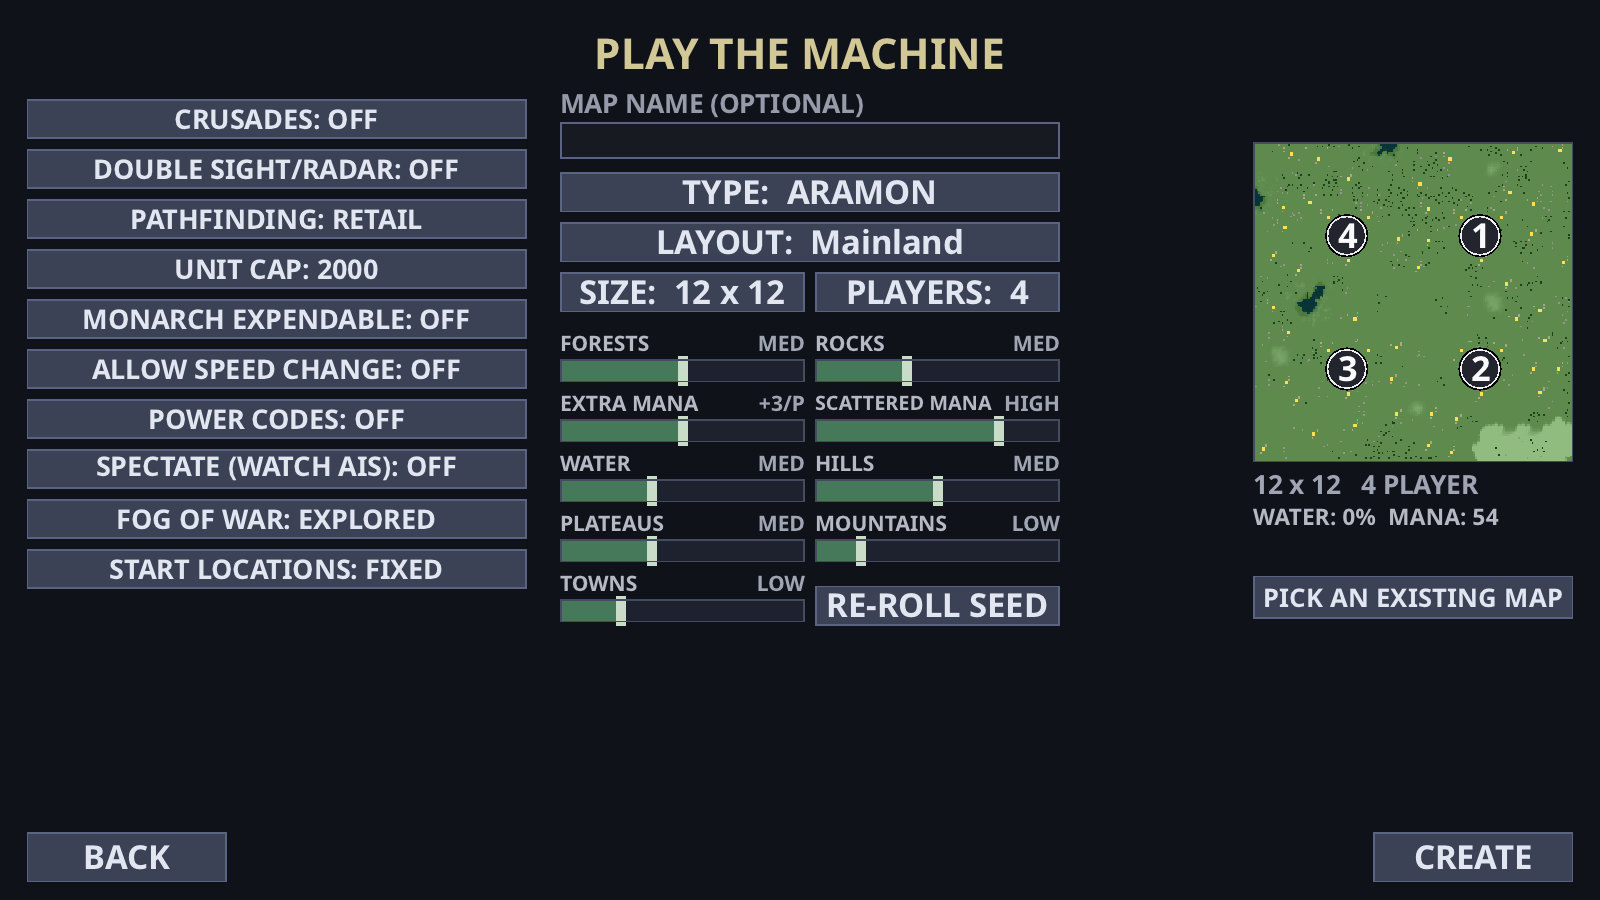
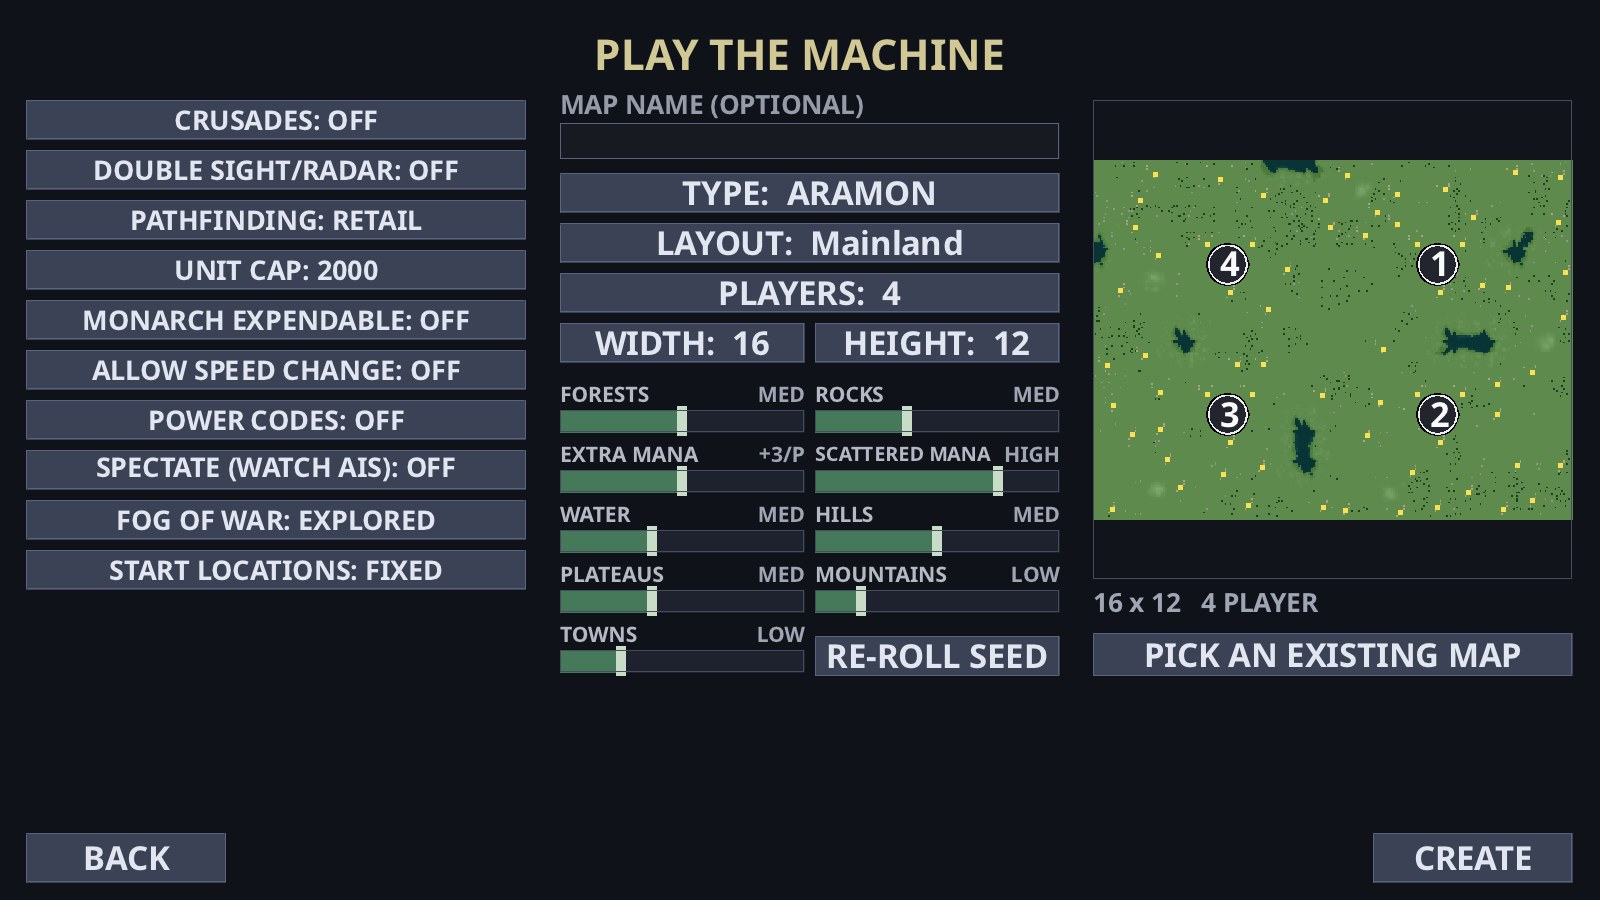
Random maps: width and height set separately, down to 8 sections where the layout fits
The generator already took a width and a height; the menu offered only squares and
sanitize raised small maps by rough per-layout minimums (12 for 5+ players on Mainland,
16/24 on the themed layouts). Now:

- The create screen has PLAYERS on its own row, then WIDTH and HEIGHT (8-64 sections,
  kSizeSteps), each offering only sizes the layout builds with the other side as it is.
- sanitize clamps each side to 8..64 and decides fit by measurement, not guesswork:
  every layout x 2-8 players x widths/heights of 8-64 sections, 16 seeds each (3,080
  combinations), counting a size only when every seed built a map that keeps its layout
  (Maze walls and exits, Highlands uplands, water on Lakes/Riverlands/Ports, a harbor
  per player on Islands/Ports). Two rules reproduce it with no size allowed that fails:
  the start plan keeps kMinStartGap for every seed rotation (startsSpacedForAnySeed,
  sharing the generator's own constant), plus a per-layout shortest side by players.
  A side that does not fit grows the smaller side first along the size steps.

Most layouts now go to 8 x 8 for up to 5 players and 12 x 12 for 6-8; long narrow maps
are allowed where the starts fit. Protocol 322: the same random-map id can build a
different size than 321 did. mapgen_test's bounds check follows (an 8-player 8 x 64 map
fits); the guide's random-map picture and the design doc's table are redone.

Claude-Session: https://claude.ai/code/session_01DLiMWrKYHUMBLp8Vqt4ANr

diff --git a/src/client/gameview_lobby.cpp b/src/client/gameview_lobby.cpp
@@ -555,10 +555,7 @@ float createOptionPx(float maxW) {
 
     void GameView::applyGenParams() {
         genParams_.formatVer = tak::mapgen::Params{}.formatVer;
-        genParams_ = tak::mapgen::sanitize(genParams_);
-        // The menu offers square maps; accommodate the layout's minimum size.
-        genParams_.widthCells = genParams_.heightCells =
-            std::max(genParams_.widthCells, genParams_.heightCells);
+        genParams_ = tak::mapgen::sanitize(genParams_);   // grows a side the layout cannot fit
         auto previous = tak::mapgen::decodeMapId(mpMapId_);
         previous.name = genParams_.name;
         const bool reusePreview = mapPreviewFor_ == mapPath_ &&
@@ -946,7 +943,6 @@ float createOptionPx(float maxW) {
       } else {
         // ---- random-map params panel (replaces the list) --------------------------
         static const char* kTypeName[tak::mapgen::kMapTypes] = {"ARAMON", "TAROS", "VERUNA", "ZHON", "CREON"};
-        static const int kSizes[] = {8, 12, 16, 20, 24, 32, 40, 48, 56, 64};   // section-units (x32 cells) per side
         // One rhythm for the whole panel: every control is kRowH tall and every gap
         // is kGap. The rows used to step by 30, 30, 36 and then 44, so the buttons
         // sat tighter than the sliders and the run of sliders drifted out of line
@@ -966,32 +962,35 @@ float createOptionPx(float maxW) {
                              const int next=(index+direction+4)%4;
                              genParams_.layout=next==3?tak::mapgen::themedLayout(genParams_.mapType):uint8_t(next);
                              applyGenParams(); }); py += kRowH + kGap;
-        int curU = genParams_.widthCells / 32;
-        char szl[48]; std::snprintf(szl, sizeof szl, "SIZE:  %d x %d", curU, curU);
-        // SIZE and PLAYERS share a row, so the six sliders and the seed button
-        // still end above the BACK/CREATE footer band of the 540-high canvas.
-        lbCycle(px, py, kHalfW, kRowH, szl, true, [this](int direction) {
-            const int u = genParams_.widthCells / 32;
+        char pl[32]; std::snprintf(pl, sizeof pl, "PLAYERS:  %d", int(genParams_.players));
+        lbCycle(px, py, kBtnW, kRowH, pl, true, [this](int direction) {
+            genParams_.players = uint8_t(2 + (genParams_.players - 2 + direction + 7) % 7);
+            applyGenParams();
+        }); py += kRowH + kGap;
+        // WIDTH and HEIGHT, in sections (32 cells), each on its own: a step offers only the
+        // sizes the layout can build with the other side as it is (sanitize keeps both).
+        const auto sizeCycle = [this](bool height, int direction) {
+            const int cur = (height ? genParams_.heightCells : genParams_.widthCells) / 32;
             std::vector<int> sizes;
-            for (int size : kSizes) {
+            for (int size : tak::mapgen::kSizeSteps) {
                 auto candidate = genParams_;
-                candidate.widthCells = candidate.heightCells = uint16_t(size * 32);
-                candidate = tak::mapgen::sanitize(candidate);
-                if (candidate.widthCells == size * 32 && candidate.heightCells == size * 32)
+                (height ? candidate.heightCells : candidate.widthCells) = uint16_t(size * 32);
+                const auto kept = tak::mapgen::sanitize(candidate);
+                if (kept.widthCells == candidate.widthCells && kept.heightCells == candidate.heightCells)
                     sizes.push_back(size);
             }
             if (sizes.empty()) return;
-            auto at = std::find(sizes.begin(), sizes.end(), u);
-            int index = at == sizes.end() ? 0 : int(at - sizes.begin());
-            int next = sizes[(index + direction + int(sizes.size())) % int(sizes.size())];
-            genParams_.widthCells = genParams_.heightCells = uint16_t(next * 32);
+            const auto at = std::find(sizes.begin(), sizes.end(), cur);
+            const int index = at == sizes.end() ? (direction > 0 ? -1 : 0) : int(at - sizes.begin());
+            const int next = sizes[size_t((index + direction + int(sizes.size())) % int(sizes.size()))];
+            (height ? genParams_.heightCells : genParams_.widthCells) = uint16_t(next * 32);
             applyGenParams();
-        });
-        char pl[32]; std::snprintf(pl, sizeof pl, "PLAYERS:  %d", int(genParams_.players));
-        lbCycle(px + kHalfW + kGap, py, kHalfW, kRowH, pl, true, [this](int direction) {
-            genParams_.players = uint8_t(2 + (genParams_.players - 2 + direction + 7) % 7);
-            applyGenParams();
-        }); py += kRowH + kGap * 2;   // a wider break between the pickers and the sliders
+        };
+        char wl[32]; std::snprintf(wl, sizeof wl, "WIDTH:  %d", genParams_.widthCells / 32);
+        lbCycle(px, py, kHalfW, kRowH, wl, true, [sizeCycle](int direction) { sizeCycle(false, direction); });
+        char hl[32]; std::snprintf(hl, sizeof hl, "HEIGHT:  %d", genParams_.heightCells / 32);
+        lbCycle(px + kHalfW + kGap, py, kHalfW, kRowH, hl, true, [sizeCycle](int direction) { sizeCycle(true, direction); });
+        py += kRowH + kGap * 2;   // a wider break between the pickers and the sliders
         // Nine sliders in two half-width columns; each level reads at the right end of
         // its label line, where the bar's column ends.
         int column = 0;

diff --git a/src/tnt/mapgen.cpp b/src/tnt/mapgen.cpp
@@ -47,8 +47,8 @@ Params sanitize(Params p) {
     const auto first = name.find_first_not_of(' ');
     p.name = first == std::string::npos ? std::string{} : name.substr(first);
     if (p.mapType >= kMapTypes) p.mapType = Aramon;
-    // Section multiples, 4..64 sections per side.
-    auto fix = [](uint16_t v) -> uint16_t { return uint16_t(std::clamp(int(v) / 32, 4, 64) * 32); };
+    // Section multiples, 8..64 sections per side.
+    auto fix = [](uint16_t v) -> uint16_t { return uint16_t(std::clamp(int(v) / 32, 8, 64) * 32); };
     p.widthCells = fix(p.widthCells);
     p.heightCells = fix(p.heightCells);
     p.players = uint8_t(std::clamp<int>(p.players, 2, 8));
@@ -56,17 +56,37 @@ Params sanitize(Params p) {
     p.layout = std::min<uint8_t>(p.layout, kLayouts-1);
     if (p.layout >= Maze) for (uint8_t world=0;world<kMapTypes;++world)
         if (themedLayout(world)==p.layout) p.mapType=world;
-    const int minimum = p.layout == Lakes ? (p.players > 4 ? 512 : 384) : (p.players > 4 ? 384 : 256);
-    int minW = minimum, minH = minimum;
-    if (p.layout >= Maze) minW = minH = p.players > 4 ? 768 : 512;
-    if (p.layout == Islands) {
-        const int cols = p.players <= 4 ? 2 : 3;
-        const int rows = (p.players + cols - 1) / cols;
-        minW = std::max(minW, cols * 256);
-        minH = std::max(minH, rows * 256);
+    // What fits was measured, not assumed (2026-11-09): every layout, 2-8 players and
+    // widths x heights of 8-64 sections, generated for 16 seeds, counting a size only when
+    // every seed built a map that keeps its layout -- Maze walls and open exits, Highlands
+    // uplands, water on Lakes, Riverlands and Ports, a harbor per player on Islands and
+    // Ports. The start plan decides most of it: every start kMinStartGap from the others,
+    // for any seed. Beyond that a layout needs a shortest side (sections) per player
+    // count, the measured value held level or rising as players are added.
+    static constexpr int kMinSide[kLayouts][9] = {
+        /* Mainland   */ {0, 0, 8, 8, 8, 8, 8, 8, 8},
+        /* Lakes      */ {0, 0, 8, 8, 8, 12, 12, 12, 12},
+        /* Islands    */ {0, 0, 8, 12, 12, 16, 16, 20, 20},
+        /* Maze       */ {0, 0, 8, 8, 8, 8, 8, 8, 8},
+        /* Ports      */ {0, 0, 12, 12, 16, 16, 16, 16, 16},
+        /* Riverlands */ {0, 0, 8, 8, 12, 12, 12, 12, 16},
+        /* Jungle     */ {0, 0, 8, 8, 8, 8, 8, 8, 8},
+        /* Highlands  */ {0, 0, 8, 8, 8, 8, 8, 8, 8},
+    };
+    const auto fits = [&](const Params& q) {
+        if (std::min(q.widthCells, q.heightCells) / 32 < kMinSide[q.layout][q.players]) return false;
+        return detail::startsSpacedForAnySeed(q);
+    };
+    // A size that does not fit grows the smaller side (width on a tie) to the next menu
+    // step until it does; 64 x 64 fits everything.
+    const auto grow = [](uint16_t cells) {
+        for (int step : kSizeSteps) if (step * 32 > cells) return uint16_t(step * 32);
+        return cells;
+    };
+    while (!fits(p) && (p.widthCells < 64 * 32 || p.heightCells < 64 * 32)) {
+        if (p.widthCells <= p.heightCells && p.widthCells < 64 * 32) p.widthCells = grow(p.widthCells);
+        else p.heightCells = grow(p.heightCells);
     }
-    p.widthCells = uint16_t(std::max<int>(p.widthCells, minW));
-    p.heightCells = uint16_t(std::max<int>(p.heightCells, minH));
     return p;
 }
 

diff --git a/tools/replay_test.cpp b/tools/replay_test.cpp
@@ -190,9 +190,11 @@ int main() {
     check(!supportedReplayProtocol(11, 221), "previous crowded-arrival protocol is refused");
     check(!supportedReplayProtocol(11, 223), "previous Flowfield avoidance protocol is refused");
     check(!supportedReplayProtocol(11, 227), "pre-Legion protocol is refused");
-    check(supportedReplayProtocol(11, kNetVersion) && kNetVersion == 321, "replay format 11 is kept under protocol 321");
-    check(supportedReplayProtocol(14, kNetVersion), "replay format 14 is kept under protocol 321");
-    check(supportedReplayProtocol(15, kNetVersion) && kReplayFormat == 15, "replay format 15 is written under protocol 321");
+    check(supportedReplayProtocol(11, kNetVersion) && kNetVersion == 322, "replay format 11 is kept under protocol 322");
+    check(supportedReplayProtocol(14, kNetVersion), "replay format 14 is kept under protocol 322");
+    check(supportedReplayProtocol(15, kNetVersion) && kReplayFormat == 15, "replay format 15 is written under protocol 322");
+    // 322 sizes random maps differently (an id 321 grew to fit can now build smaller).
+    check(!supportedReplayProtocol(15, 321), "previous protocol (random-map minimum sizes) is refused");
     // 321 refuses player orders 320 applied (an enemy's Ctrl Load, off-menu production).
     check(!supportedReplayProtocol(15, 320), "previous protocol (unchecked Load and production orders) is refused");
     // 320 changes random-map ramps (generated terrain differs from 319's).

diff --git a/src/tnt/mapgen_balanced.cpp b/src/tnt/mapgen_balanced.cpp
@@ -150,12 +150,28 @@ std::vector<Point> planStarts(const Params& p) {
 }
 }
 
+namespace detail {
+bool startsSpacedForAnySeed(const Params& p) {
+    for (uint64_t rotation = 0; rotation < 8; ++rotation) {
+        Params q = p;
+        q.seed = rotation;
+        const auto starts = planStarts(q);
+        for (size_t i = 0; i < starts.size(); ++i)
+            for (size_t j = 0; j < i; ++j) {
+                const int dx = starts[i].first - starts[j].first, dz = starts[i].second - starts[j].second;
+                if (dx * dx + dz * dz < kMinStartGap * kMinStartGap) return false;
+            }
+    }
+    return true;
+}
+}
+
 namespace {
 Result generateOnce(const Params& p,const hpi::Vfs& vfs) {
     Result r;r.starts=planStarts(p);
     for(size_t i=0;i<r.starts.size();++i)for(size_t j=0;j<i;++j) {
         const int dx=r.starts[i].first-r.starts[j].first,dz=r.starts[i].second-r.starts[j].second;
-        if(dx*dx+dz*dz<72*72)throw std::runtime_error("Random map starts are too close");
+        if(dx*dx+dz*dz<kMinStartGap*kMinStartGap)throw std::runtime_error("Random map starts are too close");
     }
     auto& m=r.map;m.stockTerrain=true;
     const int w=p.widthCells,h=p.heightCells,sw=w/32,sh=h/32;

diff --git a/src/net/protocol.h b/src/net/protocol.h
@@ -19,7 +19,9 @@
 
 namespace tak::net {
 
-constexpr uint32_t kNetVersion = 321;      // 321: review fixes -- refused player orders change nothing (a Ctrl Load checked
+constexpr uint32_t kNetVersion = 322;      // 322: random maps size each side on its own, from 8 sections where the layout fits
+                                           // (sanitize measures the fit: the start plan for any seed, islands/harbor room)
+                                           // 321: review fixes -- refused player orders change nothing (a Ctrl Load checked
                                            // before either unit is rewound; Train/RepeatTrain/Build/BuildManaArea held to the
                                            // producer's build menu, Train/RepeatTrain to mobile types); host powers follow the
                                            // host's seat across reconnects and pass on when it leaves a running game (LobbyState

diff --git a/tools/mapgen_test.cpp b/tools/mapgen_test.cpp
@@ -236,7 +236,7 @@ int main(int argc,char** argv) {
             check(d.layout==layout && themedLayout(d.mapType)==layout,"theme codec/world mismatch");
         }
         Params invalid;invalid.widthCells=0;invalid.heightCells=65535;invalid.players=255;invalid.layout=255;
-        auto sane=sanitize(invalid);check(sane.players==8&&sane.widthCells>=384&&sane.heightCells==2048,"sanitize bounds");
+        auto sane=sanitize(invalid);check(sane.players==8&&sane.widthCells>=256&&sane.heightCells==2048&&sanitize(sane).widthCells==sane.widthCells,"sanitize bounds");
         Params named; named.name = "  My Lake-7_  ";
         check(decodeMapId(encodeMapId(named)).name == "My Lake-7_", "map name round trip");
         check(friendlyLabel(named) == "My Lake-7_", "map name display");

diff --git a/src/tnt/mapgen.h b/src/tnt/mapgen.h
@@ -95,7 +95,12 @@ Result generate(const Params& p, const hpi::Vfs& vfs);
 // Prefabs consumed by either generator, included in multiplayer's data hash.
 std::vector<std::string> assetPaths(const hpi::Vfs& vfs);
 
-// Clamp UI inputs to section multiples, 2..8 players, and layout-specific space.
+// The map sizes the menus offer, in sections (32 cells) per side.
+constexpr int kSizeSteps[] = {8, 12, 16, 20, 24, 32, 40, 48, 56, 64};
+
+// Clamp UI inputs to section multiples, 2..8 players, and layout-specific space: a side
+// the layout cannot fit at this player count grows (the smaller side first, along
+// kSizeSteps) until it can. Width and height are independent.
 Params sanitize(Params p);
 
 // Complete, balanced expansion rounds; independent of map area/player count.

diff --git a/src/tnt/mapgen_internal.h b/src/tnt/mapgen_internal.h
@@ -361,5 +361,11 @@ constexpr std::array<std::pair<int, int>, 8> kCompass = {{
     {0, 1000}, {-707, 707}, {-1000, 0}, {-707, -707},
 }};
 
+// The closest two starts may be, in cells (generateBalanced refuses a closer plan).
+constexpr int kMinStartGap = 72;
+// Whether the start plan keeps kMinStartGap for every rotation the seed can pick
+// (seed % 8): a size that holds here holds for any seed. sanitize asks it.
+bool startsSpacedForAnySeed(const Params& p);
+
 
 } // namespace tak::mapgen::detail

diff --git a/docs/user-guide.md b/docs/user-guide.md
@@ -534,9 +534,11 @@ The Retail AI always plays the campaign's computer opponents: see
   routes. Maze corridors open onto all four map edges, and Lakes can reach the
   edge of the map.
 - **World**: the look of the map (Aramon, Taros, Veruna, Zhon or Creon terrain).
-- **Size** and **player count**, up to 64 × 64. The sizes on offer depend on the
-  layout and the player count: larger player counts need bigger maps, and themed
-  layouts start at 16 × 16 (24 × 24 for 5–8 players).
+- **Players**, then **Width** and **Height**, each from 8 to 64 sections, set on their
+  own. A size the layout cannot build fairly at that player count is skipped: most
+  layouts go down to 8 × 8 for up to 5 players and 12 × 12 for 6–8, and Islands, Ports,
+  Lakes and Riverlands need a little more room as players are added. Long, narrow maps
+  are allowed where the starts fit.
 - **Forests**, **Rocks**, **Water** and **Hills** amounts (on Creon Highlands the
   Hills slider is **Highlands**, the amount of high ground).
 - **Plateaus**, **Mountains** and **Towns**: terrain built from the original
@@ -585,10 +587,10 @@ are not supported any more: the game asks you to generate a new map. A
 generated map you have saved as a `.kmp` always plays, whatever made it.
 Rebuilding a map from its recipe needs the same game data.
 
-![The single-player screen with Generate Random Map open: Type Aramon and Layout Mainland, then Size 12 × 12 and Players 4 on one row, the Forests, Rocks, Extra Mana, Scattered Mana (at High), Water, Hills, Plateaus, Mountains and Towns sliders in two columns and Re-roll Seed. The preview shows four numbered starts](img/guide/random-map-lobby.jpg)
+![The single-player screen with Generate Random Map open: Type Aramon, Layout Mainland and Players 4, then Width 16 and Height 12 on one row, the Forests, Rocks, Extra Mana, Scattered Mana (at High), Water, Hills, Plateaus, Mountains and Towns sliders in two columns and Re-roll Seed. The preview shows the wide 16 × 12 map with four numbered starts](img/guide/random-map-lobby.jpg)
 
 *The random map settings in the single-player lobby, with Scattered Mana at
-High. Size and Players share a row.*
+High, on a wide 16 × 12 map: Width and Height are set separately.*
 
 ![A wooded lake shore on a generated Aramon Riverlands map, with a lodestone among standing-stone ruins in a clearing and a rocky plateau rim at the lower left](img/generated.jpg)
 

diff --git a/docs/random-map-generation.md b/docs/random-map-generation.md
@@ -46,18 +46,28 @@ ordinary playable maps. Clients and servers must run the same engine version
 In the game setup screen each biome offers its own themed fourth layout.
 Cartographer lists the themed layouts by faction; selecting one sets its biome.
 
-The menu offers square sizes 8, 12, 16, 20, 24, 32, 40, 48, 56, and 64. It skips sizes that cannot
-support the selected layout/player count:
+Width and height are set separately, each 8, 12, 16, 20, 24, 32, 40, 48, 56 or 64 sections
+(one section is 32 simulation cells); the menu skips a size the layout cannot build with
+the other side as it is, and `sanitize` grows a side that does not fit (the smaller side
+first, along those steps). What fits was measured, not assumed: every layout, 2–8 players
+and widths × heights of 8–64 sections were generated for 16 seeds (3,080 combinations),
+and a size counts only when every seed built a map that keeps its layout (Maze walls and
+open exits, Highlands uplands, water on Lakes, Riverlands and Ports, a harbor per player on
+Islands and Ports). Two rules reproduce that with no size allowed that fails:
 
-| Layout | 2–4 players | 5–8 players |
-| --- | --- | --- |
-| Mainland | 8×8 minimum | 12×12 minimum |
-| Lakes | 12×12 minimum | 16×16 minimum |
-| Islands | 16×16 minimum | 24×24 minimum |
-| Themed layouts | 16×16 minimum | 24×24 minimum |
+1. The start plan keeps every start 72 cells from the others for any of the eight
+   rotations the seed picks (`startsSpacedForAnySeed`). This alone decides Mainland, Maze,
+   Jungle and Highlands, and keeps 6–8 player maps at 12 sections or more on a side unless
+   the other side is long.
+2. A shortest side, in sections, by layout and players (held level or rising with players):
 
-The API also accepts rectangular dimensions in 32-cell section multiples, with
-per-axis space requirements. One map-size unit is 32 simulation cells.
+| Layout | 2 | 3 | 4 | 5 | 6 | 7 | 8 |
+| --- | --- | --- | --- | --- | --- | --- | --- |
+| Mainland, Maze, Jungle, Highlands | 8 | 8 | 8 | 8 | 8 | 8 | 8 |
+| Lakes | 8 | 8 | 8 | 12 | 12 | 12 | 12 |
+| Riverlands | 8 | 8 | 12 | 12 | 12 | 12 | 16 |
+| Islands | 8 | 12 | 12 | 16 | 16 | 20 | 20 |
+| Ports | 12 | 12 | 16 | 16 | 16 | 16 | 16 |
 
 Starts are planned before terrain is painted, with a minimum 72-cell separation,
 level home areas, and clear 24×24-cell construction squares. Home economies are
